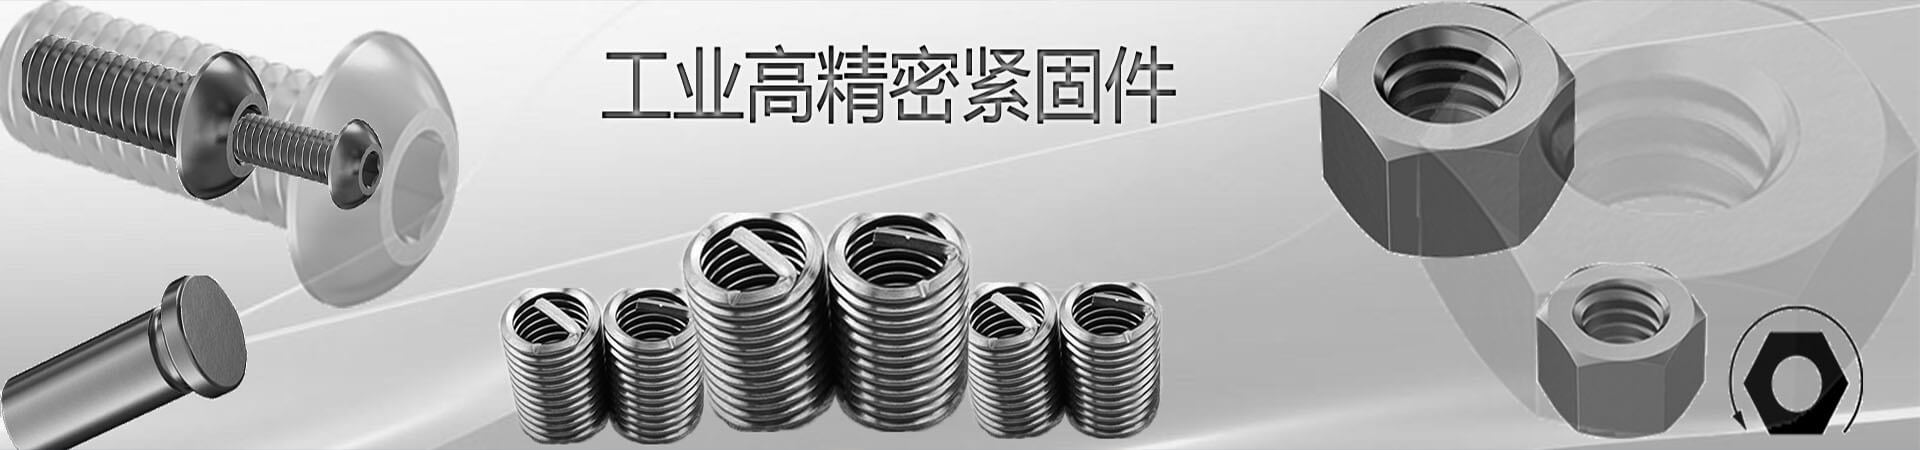
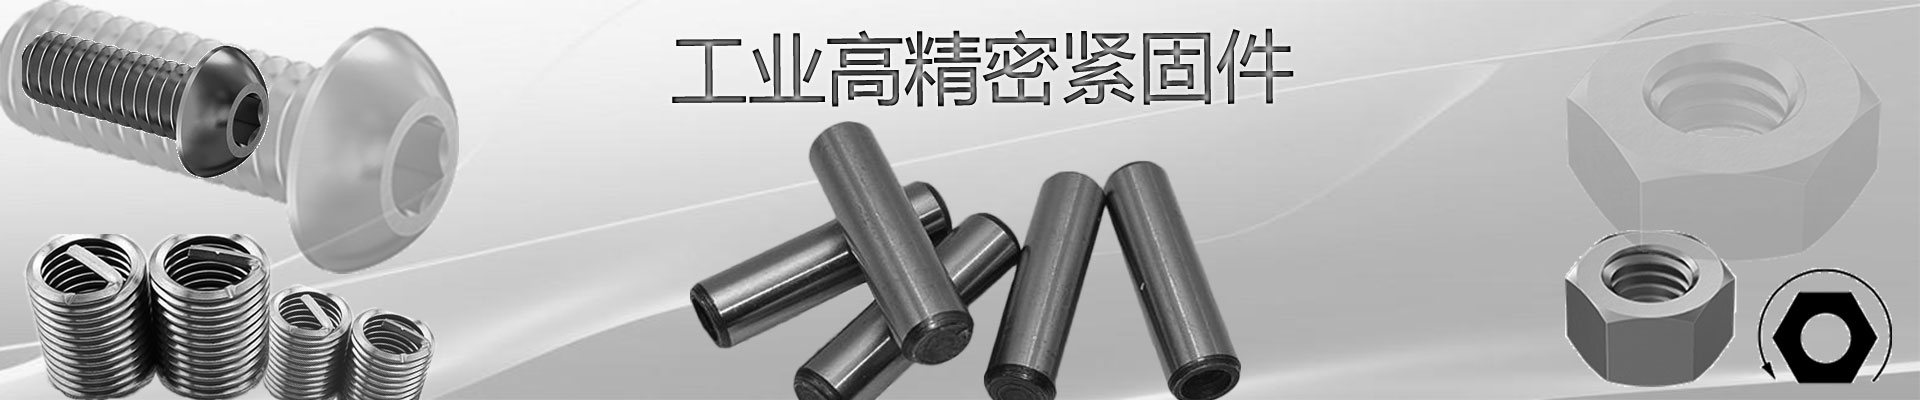
fix: 修改配置

diff --git a/pages/about.vue b/pages/about.vue
@@ -1,26 +1,29 @@
 <template>
   <div class="about">
-    <div class="theme-title title-pos contact-title">
-      <p>北富联机电</p>
-      <img :src="require('@/assets/img/third/about-title.png')" alt="" />
-    </div>
-    <div class="about-content">
-      <div>
-        <img :src="require('@/assets/img/third/nf_logo.png')" alt="" />
+    <div class="top">
+      <div class="theme-title title-pos contact-title">
+        <p>北富联机电</p>
+        <img :src="require('@/assets/img/third/about-title.png')" alt="" />
       </div>
+      <div class="about-content">
+        <div>
+          <img :src="require('@/assets/img/third/nf_logo.png')" alt="" />
+        </div>
 
-      <div class="right">
-        <p>
-          深圳市北富联机电有限公司（www.northfull.com）是一家工业高精密紧固件销售、服务为一体的专业公司，为客户提供高品质五金紧固件工业服务商！
-        </p>
-        <p>
-          北富联机电提供ISO国际、美国米制ANSI（M）、ASME（M）、ASTM（M）、JIS日本、DIN德国、EN欧盟、GB中国、BS英国（M）、AS（M）澳大利亚的系列标准件。主要代理McMASER-CARR、Helicoil螺套、BERG定位销、RECOIL螺纹护套及配套机电工具等。
-        </p>
-        <p>
-          本公司以“用心服务，客户为核心”为宗旨，坚持以用户的要求为中心，提供高效服务，为客户解决问题。北富联机电是您值得信赖的合作伙伴！
-        </p>
+        <div class="right">
+          <p>
+            深圳市北富联机电有限公司（www.northfull.com）是一家工业高精密紧固件销售、服务为一体的专业公司，为客户提供高品质五金紧固件工业服务商！
+          </p>
+          <p>
+            北富联机电提供ISO国际、美国米制ANSI（M）、ASME（M）、ASTM（M）、JIS日本、DIN德国、EN欧盟、GB中国、BS英国（M）、AS（M）澳大利亚的系列标准件。主要代理McMASER-CARR、Helicoil螺套、BERG定位销、RECOIL螺纹护套及配套机电工具等。
+          </p>
+          <p>
+            本公司以“用心服务，客户为核心”为宗旨，坚持以用户的要求为中心，提供高效服务，为客户解决问题。北富联机电是您值得信赖的合作伙伴！
+          </p>
+        </div>
       </div>
     </div>
+
     <div class="about-content2">
       <div class="theme-title title2">为什么选择我们</div>
       <div class="contact-desc">
@@ -76,6 +79,8 @@ export default {
 
 <style lang="less" scoped>
 .about {
+  // z-index: 999;
+  // margin-top: -400px;
   p {
     margin-bottom: 0px;
   }
@@ -148,5 +153,14 @@ export default {
       height: 142px;
     }
   }
+}
+.contact-title {
+}
+.top {
+  background: #ffffff;
+  // position: absolute;
+  // height: 600px;
+  // margin-top: -300px;
+  z-index: 999;
 }
 </style>

diff --git a/nuxt.config.js b/nuxt.config.js
@@ -2,7 +2,7 @@ export default {
   // Global page headers (https://go.nuxtjs.dev/config-head)
   head: {
     title:
-      'mcmaster-carr中国代理-berg定位销-helicoil螺套-工业高精密紧固件-北富联机电有限公司',
+      'mcmaster-carr中国代理_McMasterCarr螺丝螺母总代理_berg定位销_helicoil螺套_工业高精密紧固件_深圳市北富联机电有限公司官网',
     script: [{ src: '//js.users.51.la/21052033.js' }],
     meta: [
       { charset: 'utf-8' },

diff --git a/components/Tab.vue b/components/Tab.vue
@@ -47,7 +47,7 @@ export default {
 
         about: [
           {
-            img: require('@/assets/img/third/banner/home_2.jpg'),
+            img: require('@/assets/img/third/banner/banner_detail.jpg'),
             link: '',
           },
         ],
